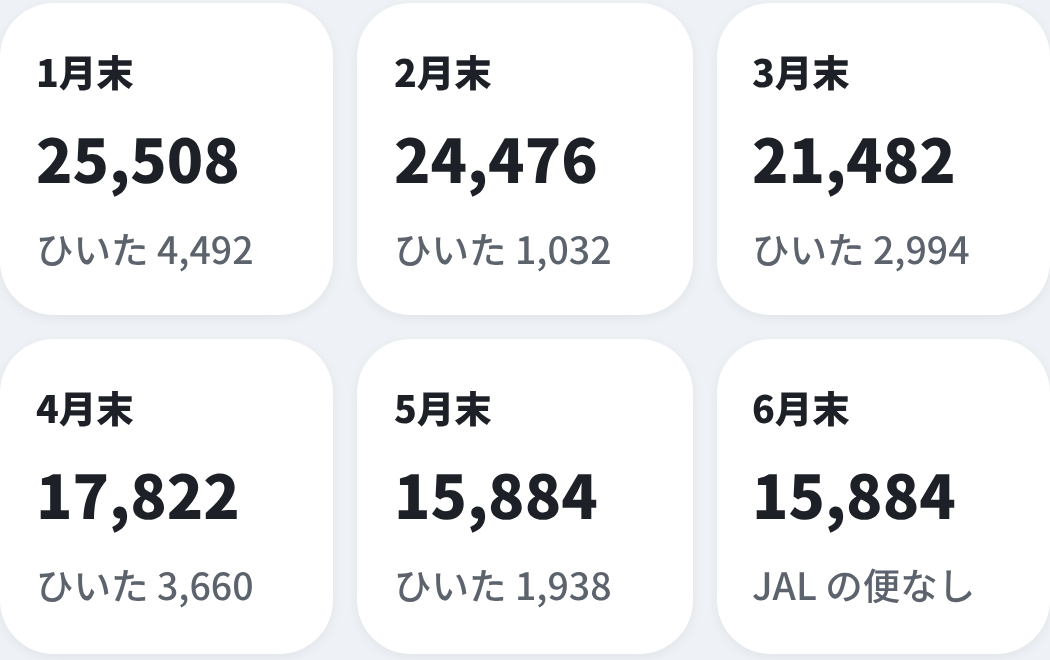
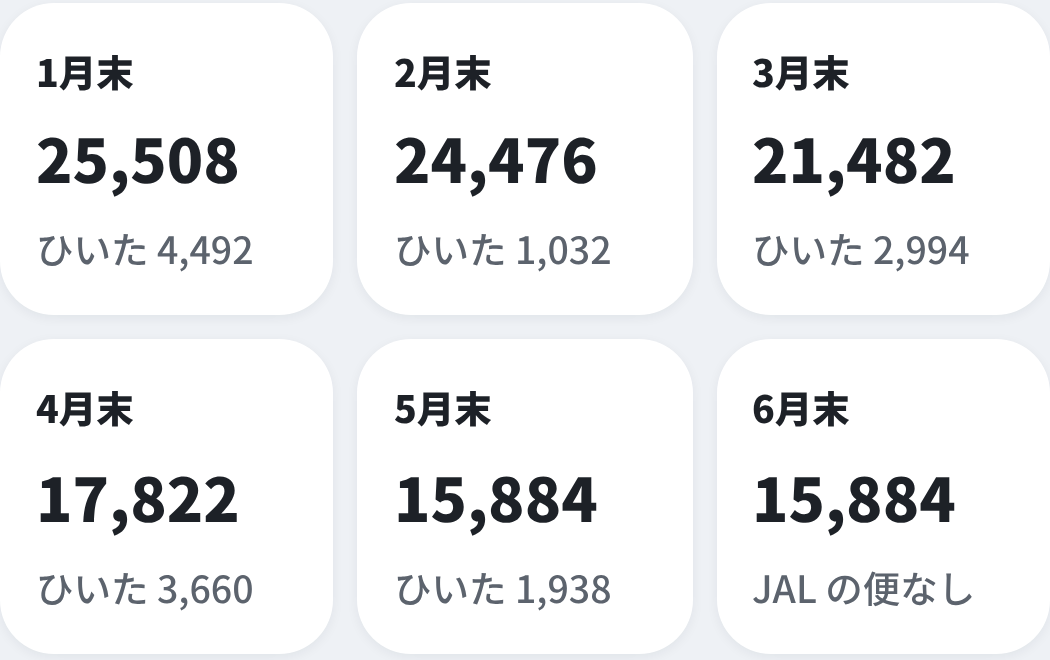
広告：修行の投稿の画像を本番（soramemo.jp）のデモで撮り直す。撮り方の手順と報告を更新
Claude-Session: https://claude.ai/code/session_01WGRBVHnS9XWc4Qb8Sh2dBL

diff --git a/docs/marketing/images/post-shugyo.html b/docs/marketing/images/post-shugyo.html
@@ -48,7 +48,7 @@ body{background:#D9DEE6;font-family:var(--gothic);color:var(--ink);-webkit-text-
     <p class="eyebrow">ステイタスを目指して乗る人へ</p>
     <h2 class="ttl" style="font-size:27px">年末まで、<br>あと何回か。<small>乗った便から、修行の道のりを数える。</small></h2>
   </div>
-  <div class="shot" style="top:160px;left:36px;right:36px"><img src="shugyo/hero.png" alt=""></div>
+  <div class="shot" style="top:156px;left:54px;right:54px"><img src="shugyo/hero.png" alt=""></div>
   <p class="note" style="top:358px">数字はデモの見本。届くかは推定で、保証しません。</p>
   <div class="foot"><span class="logo"><svg viewBox="0 0 24 24"><circle cx="12" cy="12" r="10" fill="none" stroke="currentColor" stroke-width="2"/><path d="M7 13 17 7l-4 11-2-4z" fill="currentColor"/></svg>そらメモ</span><span class="np">非公式アプリ・デモの画面</span><span class="no">1/6</span></div>
 </section>
@@ -59,7 +59,7 @@ body{background:#D9DEE6;font-family:var(--gothic);color:var(--ink);-webkit-text-
     <p class="eyebrow">1　道のりの1枚</p>
     <h2 class="ttl">今のポイントを大きく。<br>届くかを一文で。<small>1年が何%過ぎたかと並べて、推定で出します。</small></h2>
   </div>
-  <div class="shot" style="top:160px;left:36px;right:36px"><img src="shugyo/hero.png" alt=""></div>
+  <div class="shot" style="top:156px;left:54px;right:54px"><img src="shugyo/hero.png" alt=""></div>
   <p class="note" style="top:358px">「運賃を推定した便」は、運賃が分からず、よく使われる運賃で数えた便の数です。</p>
   <div class="foot"><span class="logo"><svg viewBox="0 0 24 24"><circle cx="12" cy="12" r="10" fill="none" stroke="currentColor" stroke-width="2"/><path d="M7 13 17 7l-4 11-2-4z" fill="currentColor"/></svg>そらメモ</span><span class="np">非公式アプリ・デモの画面</span><span class="no">2/6</span></div>
 </section>
@@ -116,7 +116,7 @@ body{background:#D9DEE6;font-family:var(--gothic);color:var(--ink);-webkit-text-
     <p class="eyebrow">修行中の人へ</p>
     <h2 class="ttl" style="font-size:30px">今年の修行、<br>あと何回？<small>そらメモの「修行」で、乗った便から数えられます。</small></h2>
   </div>
-  <div class="shot" style="top:250px"><img src="shugyo/hero.png" alt=""></div>
+  <div class="shot" style="top:226px;left:48px;right:48px"><img src="shugyo/hero.png" alt=""></div>
   <div class="poll" style="top:470px">ここに アンケートのスタンプ<br>（あと10回以内／まだまだ／来年から）</div>
   <div class="poll" style="top:540px;padding:10px">ここに リンクのスタンプ</div>
   <div class="foot" style="height:44px"><span class="logo"><svg viewBox="0 0 24 24"><circle cx="12" cy="12" r="10" fill="none" stroke="currentColor" stroke-width="2"/><path d="M7 13 17 7l-4 11-2-4z" fill="currentColor"/></svg>そらメモ</span><span class="np">非公式アプリ・推定・デモの画面</span><span class="no"></span></div>

diff --git a/docs/marketing/posts-shugyo.md b/docs/marketing/posts-shugyo.md
@@ -3,8 +3,8 @@
 ステイタスを目指して乗る人（修行）に向けて、修行タブ（PR #64・#71 で本番に入った形）を紹介する。
 
 - 画像：`images/png/shugyo-1.png`〜`shugyo-6.png`（1080×1350）、`shugyo-story.png`（1080×1920）。HTML は `images/post-shugyo.html`
-- 画面は main の `src/index.html`（本番と同じ版）を**デモモード**で動かして撮った本物の画面（11/12 撮影）。数字はデモの見本の記録で、実在の人の記録ではない。上の「デモモード中」の帯は切り抜きで外してあるが、画像の下に「デモの画面」と入れた
-  - 本番（soramemo.jp）は、ここからは確認の画面に止められて開けなかった。本人が本番のデモで撮り直したいときは、同じ場所（道のり・2つの箱・1便の内訳・月ごと・入れたら届くか）を撮って `images/shugyo/` の同じ名前に置き、HTML を書き出し直す
+- 画面は **本番（soramemo.jp）を「デモで試す」で開いて撮った画面**（11/12 夜に撮り直し。Playwright、幅390・3倍）。数字はデモの見本の記録で、実在の人の記録ではない。上の「デモモード中」の帯と下のタブ帯は外して撮り、画像の下に「デモの画面」と入れた
+  - 本番の数字は前に main で撮ったときと同じ（クリスタルまで 14,116 FOP・あと 15,884 FOP／あと16回、宮古→羽田のセイバー 1,938 FOP）
 - 数字の検算（修行の計算ルール 2026年10月確認どおり）：宮古→羽田 区間マイル 1,158 × 75%（セイバー）＝ 869 → ×2 ＝ 1,738 → ＋搭乗ボーナス 200 ＝ **1,938 FOP**。クリスタル 30,000 − 14,116 ＝ 15,884、30回 − 14回 ＝ あと16回（1万 FOP は済み）。画面の数字と合う
 - 宣伝している機能は、どれも main にあるもの：道のり（大きな数字・1年の%・届くか（推定）の一文・運賃を推定した便の数）・2つの箱（JAL は FOP だけ／30回＋1万 FOP、ANA は PP の1つ）・JGC（Life Status）の行・1便ごとと1便の内訳・月ごと（12月31日の残り・月末の残り・路線ごと）・入れたら届くか・計画を作る・路線を入れて計算する
 

diff --git a/docs/pm/report-ads-shugyo.md b/docs/pm/report-ads-shugyo.md
@@ -40,3 +40,13 @@
 ### アプリ側に頼みたいこと
 - 前からの依頼のまま（`?from=ig` で来た人を数える・共有画像に「非公式アプリ」）
 - 経営担当へ：本番で co_v3（見た機体・小型機）が ON かを教えてほしい（リールCと投稿3の書き方を合わせるため）
+
+---
+
+## 追加2（11/12 夜、PM の再指示：ads/shugyo に足す）
+
+- 前回の組み直し（ads/weekend-plan・PR #77 の中身）を ads/shugyo に入れた。これからは PR #76 の1本で見てもらう（#77 は閉じた）
+- **修行の画像を本番（soramemo.jp）で撮り直した**：Playwright で本番を開いて「デモで試す」→ 修行タブ。道のり・2つの箱・1便の内訳・月ごと・入れたら届くか・路線を入れて計算する、を撮って `images/shugyo/` を置き換え、`png/shugyo-1〜6.png`・`shugyo-story.png` を書き出し直した
+  - 本番の数字は前の画像と同じ（14,116 FOP・あと 15,884 FOP／あと16回・1,938 FOP）なので、本文は変えていない
+  - 本番の道のりのカードは字が少し大きく背が高いので、1・2枚目とストーリーズはカードの幅を少し狭めて収めた
+- 上の「本人に決めてほしいこと」の2（今の画像で出してよいか）は、本番で撮り直したので要らなくなった

diff --git a/docs/marketing/shoot-guide.md b/docs/marketing/shoot-guide.md
@@ -1,6 +1,8 @@
 # 本番の画面の撮り方（本人用の1枚）
 
-11/12 本人「投稿の画像は本番（soramemo.jp）の画面で撮る」。担当の環境からは本番が確認の画面で止まって開けないので、本人が撮る手順をまとめた。PM が本番を開けたら PM が撮ってもよい。
+11/12 本人「投稿の画像は本番（soramemo.jp）の画面で撮る」。
+
+**11/12 夜の追記**：担当の環境からも Playwright（幅390×844）で本番が開けた（はじめの案内を閉じて「デモで試す」）。修行の6画面とストーリーズは担当が本番で撮り直し済み。これからの投稿の画面も、まず担当が本番で撮る。下の手順は、担当が開けなかったときと、本人が自分の端末で撮りたいとき用。
 
 ## 準備（1回だけ）
 1. スマホの **おやすみモード** をオン（通知が映らない）。画面の明るさを最大、縦向き固定
